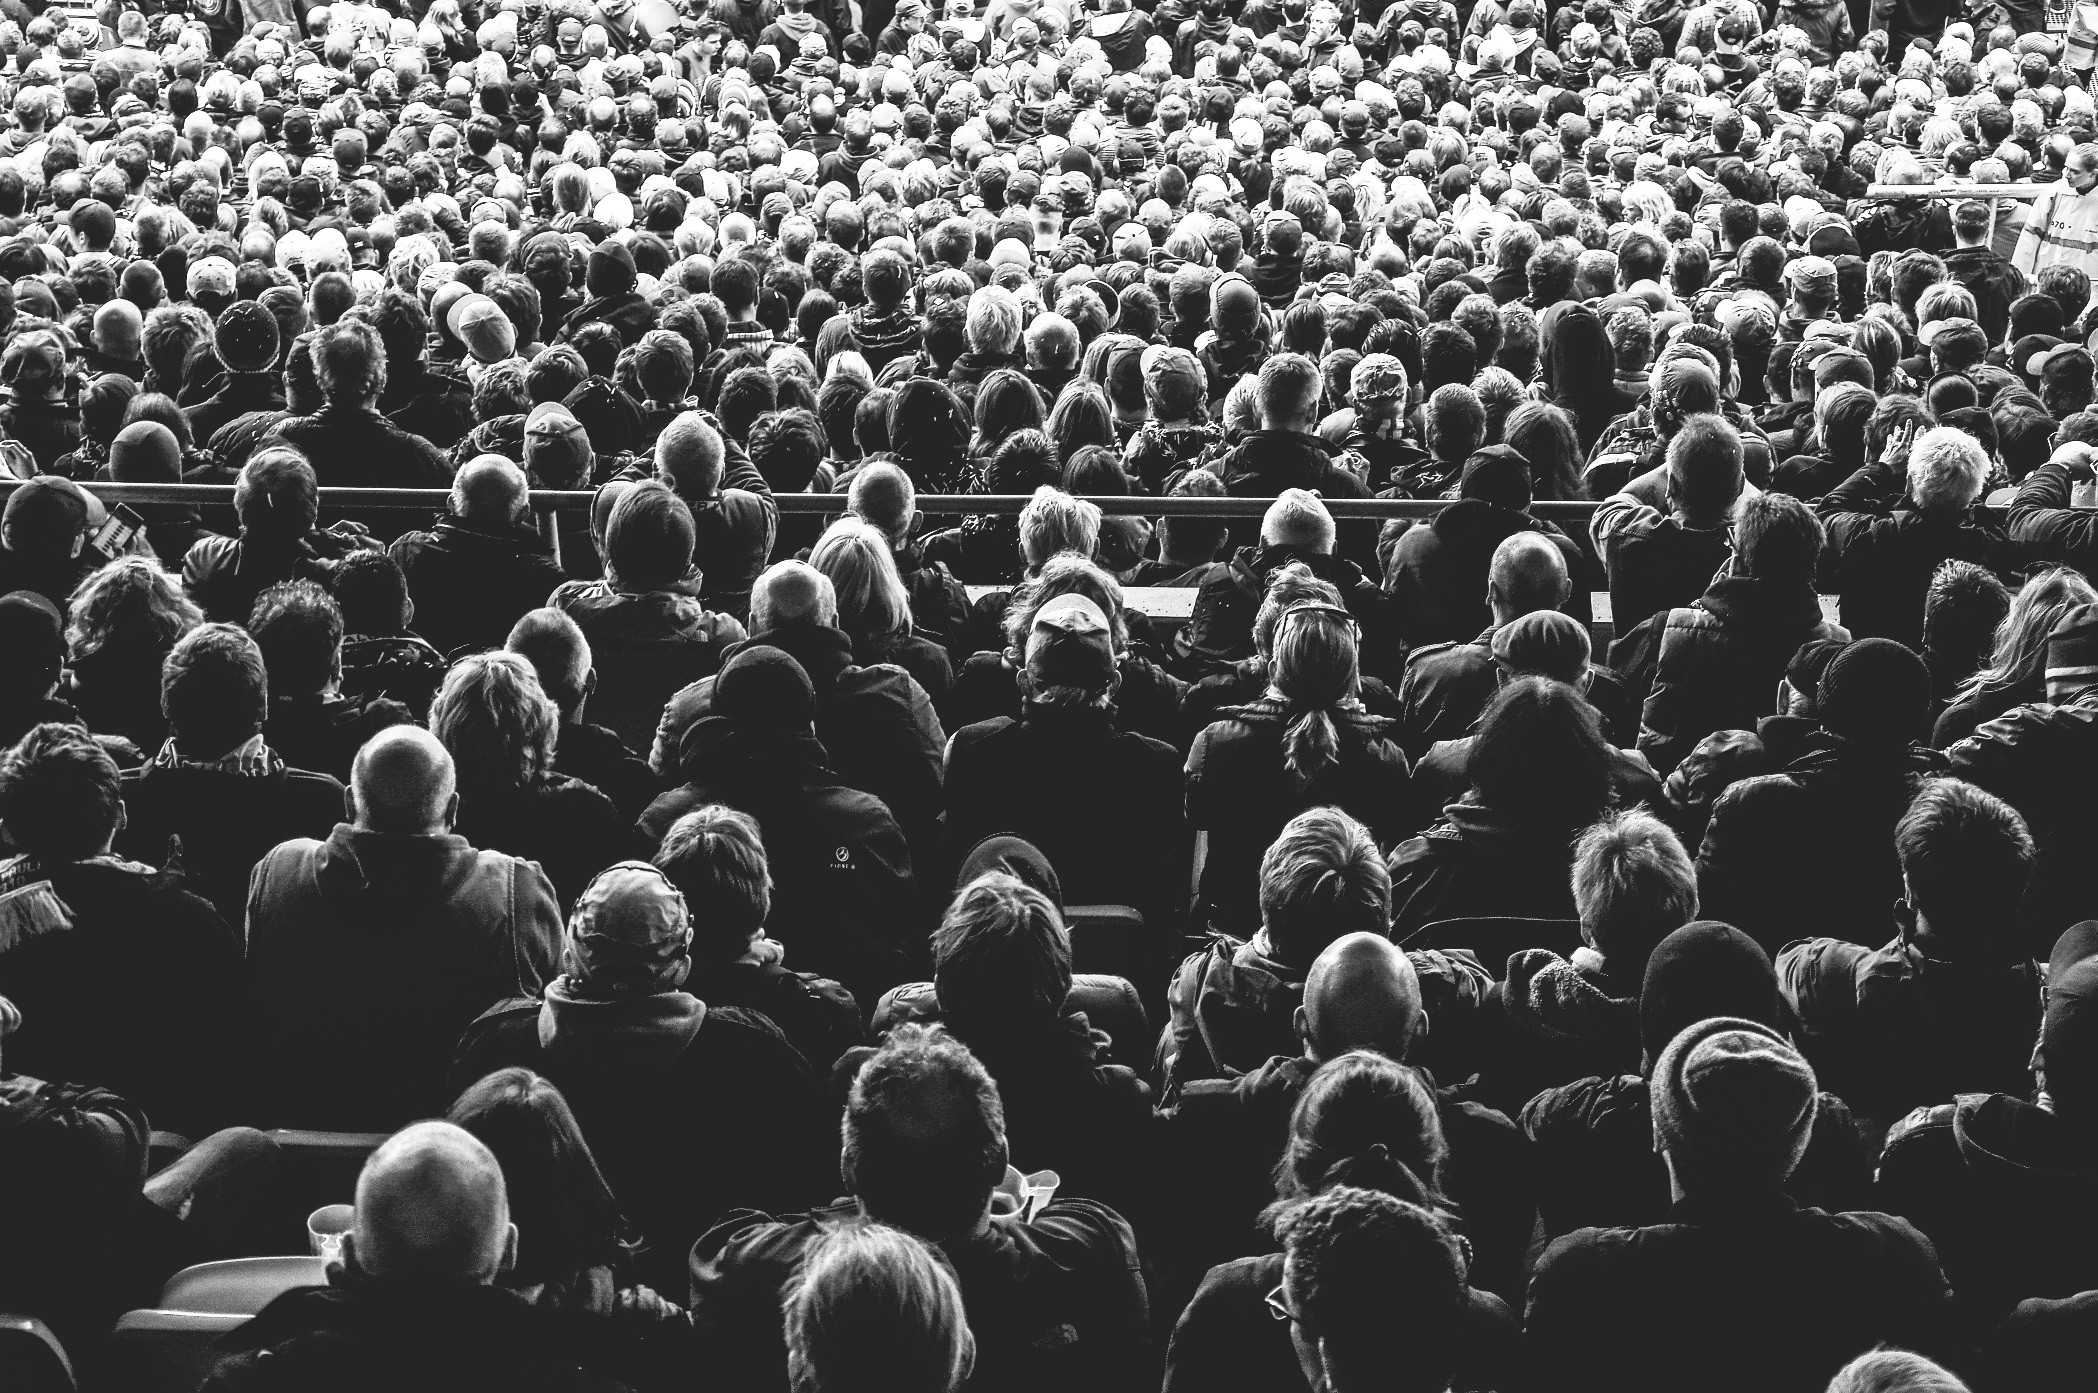
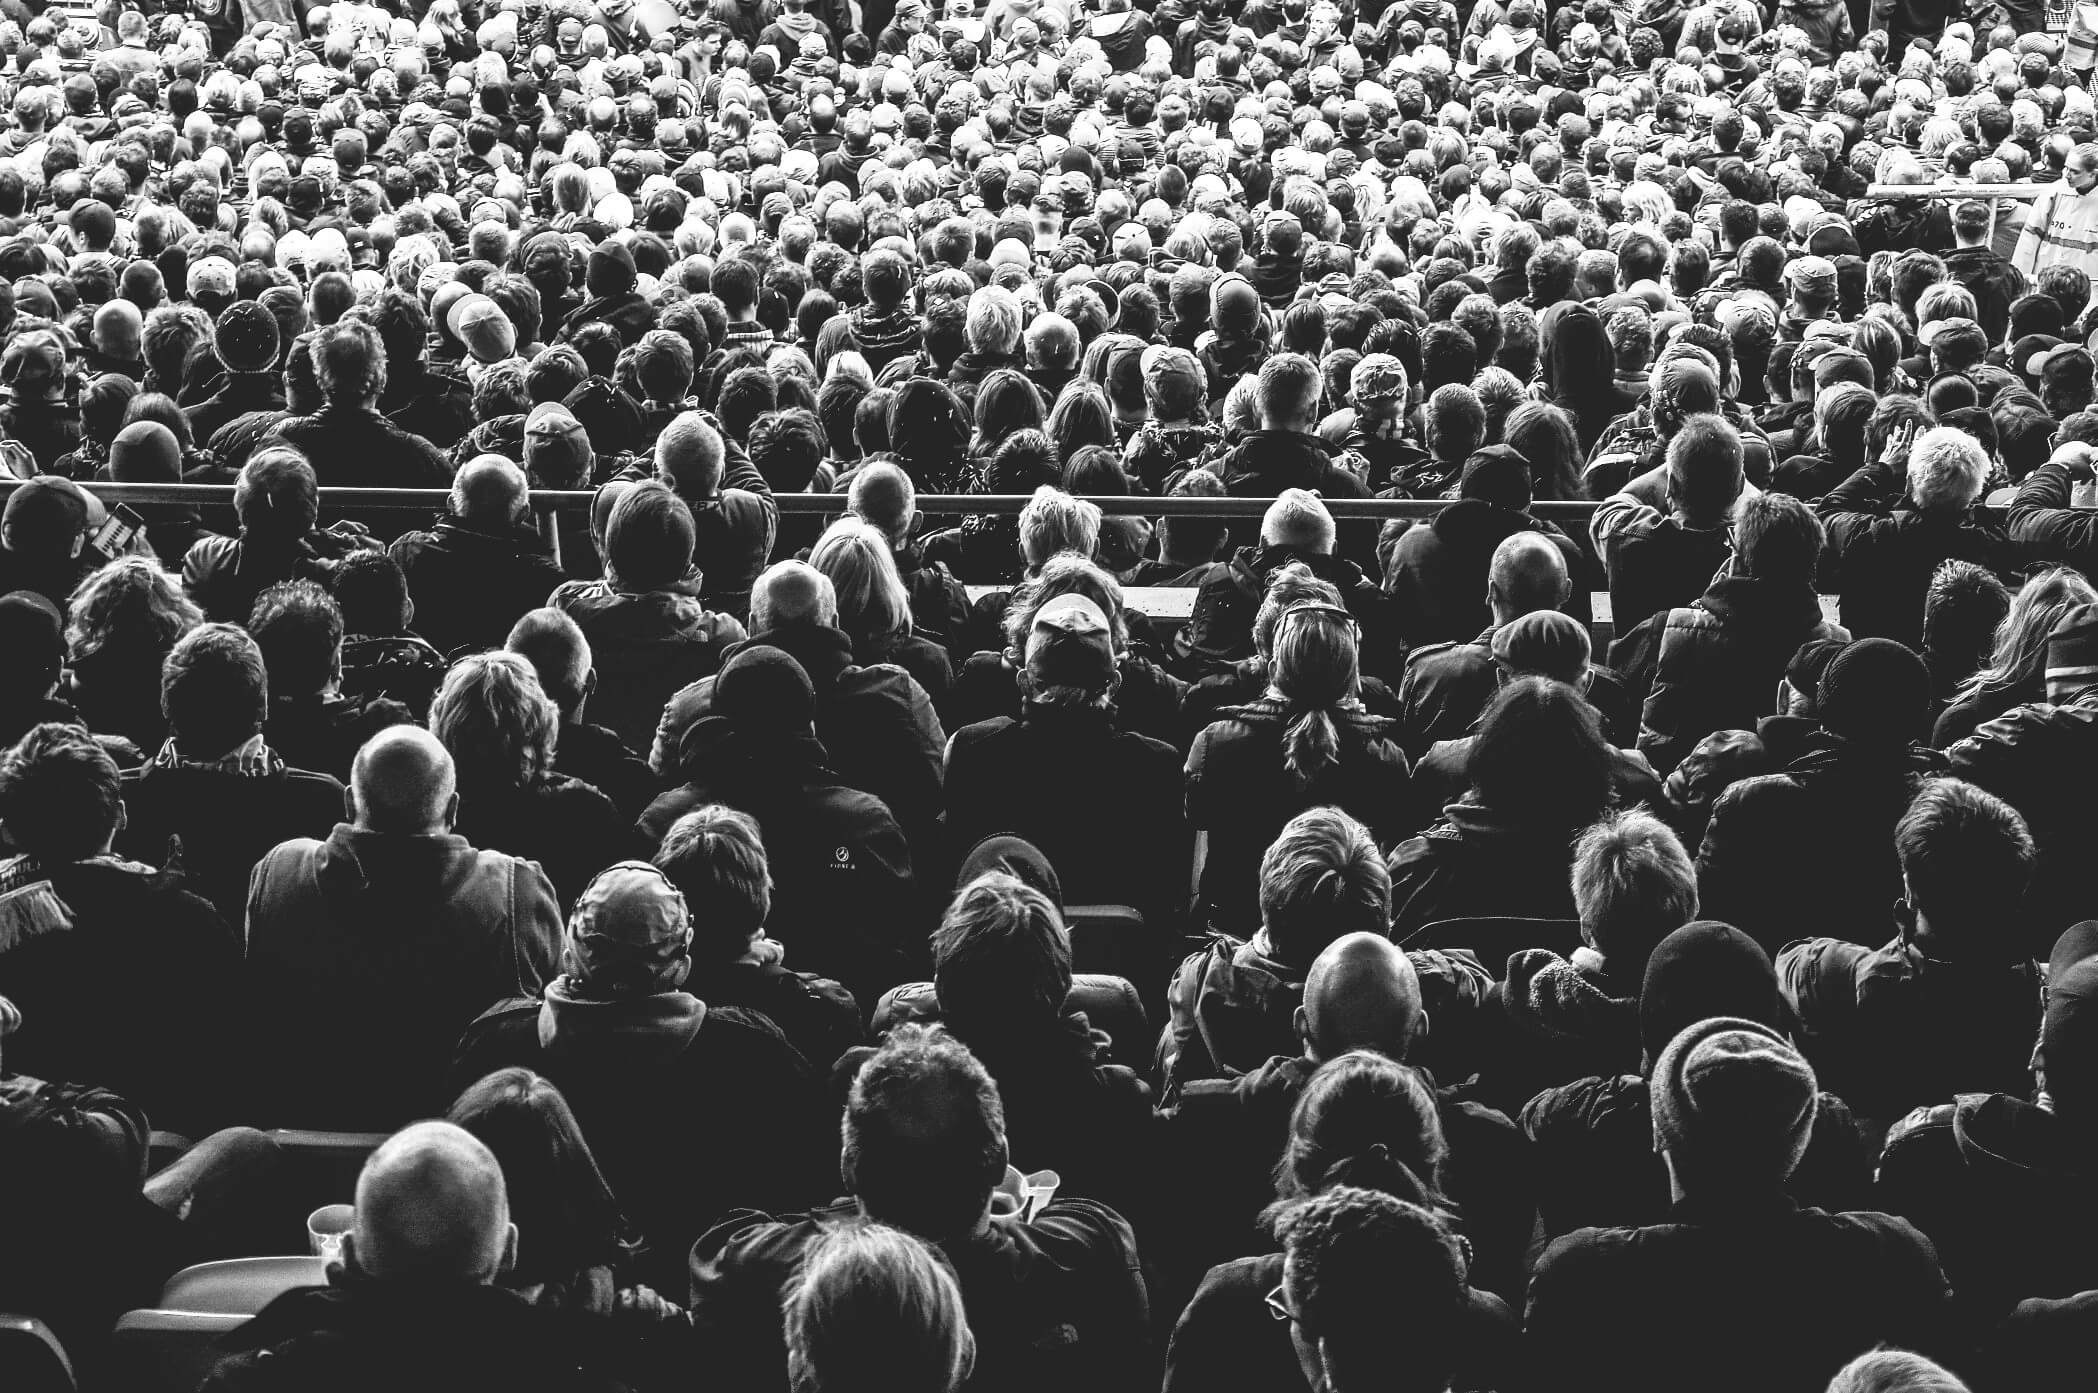
feat: save selected theme

diff --git a/students/AnnaVernadskaya/drum-kit/script.js b/students/AnnaVernadskaya/drum-kit/script.js
@@ -8,7 +8,7 @@ const removeTransition = (event) => {
   }
 
   event.target.classList.remove('playing');
-}
+};
 
 //воспроизведение аудио
 const playSound = (keyCode) => {
@@ -23,7 +23,7 @@ const playSound = (keyCode) => {
 
   audio.currentTime = 0;
   audio.play();
-}
+};
 
 //воспроизведение аудио при нажатии на клавишу
 const handleKeydown = (event) => {
@@ -47,17 +47,27 @@ window.addEventListener('keydown', handleKeydown);
 const themeButtons = document.querySelectorAll('.theme-switcher__button');
 const body = document.body;
 
-themeButtons.forEach((button) => {
-  button.addEventListener('click', () => {
-    const selectedTheme = button.dataset.theme;
-
+const setTheme = (theme) => {
     body.classList.remove('theme-demo', 'theme-custom');
-    body.classList.add(`theme-${selectedTheme}`);
+    body.classList.add(`theme-${theme}`);
 
     themeButtons.forEach((button) => {
       button.classList.remove('theme-switcher__button--active');
-    });
 
-    button.classList.add('theme-switcher__button--active');
+    if (button.dataset.theme === theme) {
+      button.classList.add('theme-switcher__button--active');
+    }
+  });
+
+  localStorage.setItem('drum-kit-theme', theme);
+};
+
+const savedTheme = localStorage.getItem('drum-kit-theme') || 'demo';
+
+setTheme(savedTheme);
+
+themeButtons.forEach((button) => {
+  button.addEventListener('click', () => {
+    setTheme(button.dataset.theme);
   });
 });

diff --git a/students/AnnaVernadskaya/drum-kit/index.html b/students/AnnaVernadskaya/drum-kit/index.html
@@ -7,7 +7,7 @@
   <link rel="icon" type="image/svg+xml" href="./images/favicon.svg">
   <link rel="stylesheet" href="./style.css">
 </head>
-<body>
+<body class="theme-demo">
   <main class="drum-kit">
     <h1 class="drum-kit__title visually-hidden">Drum Kit</h1>
 
